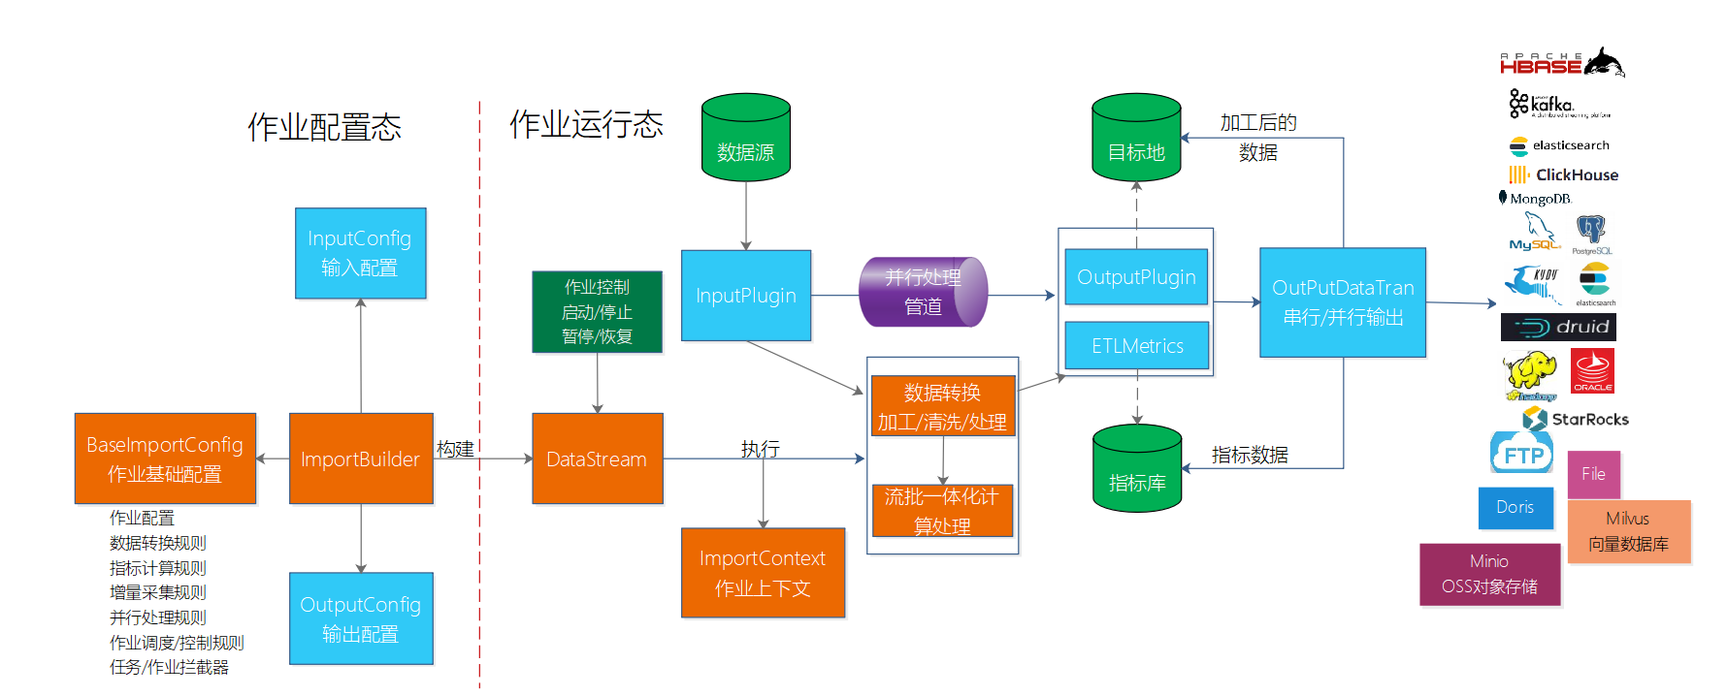
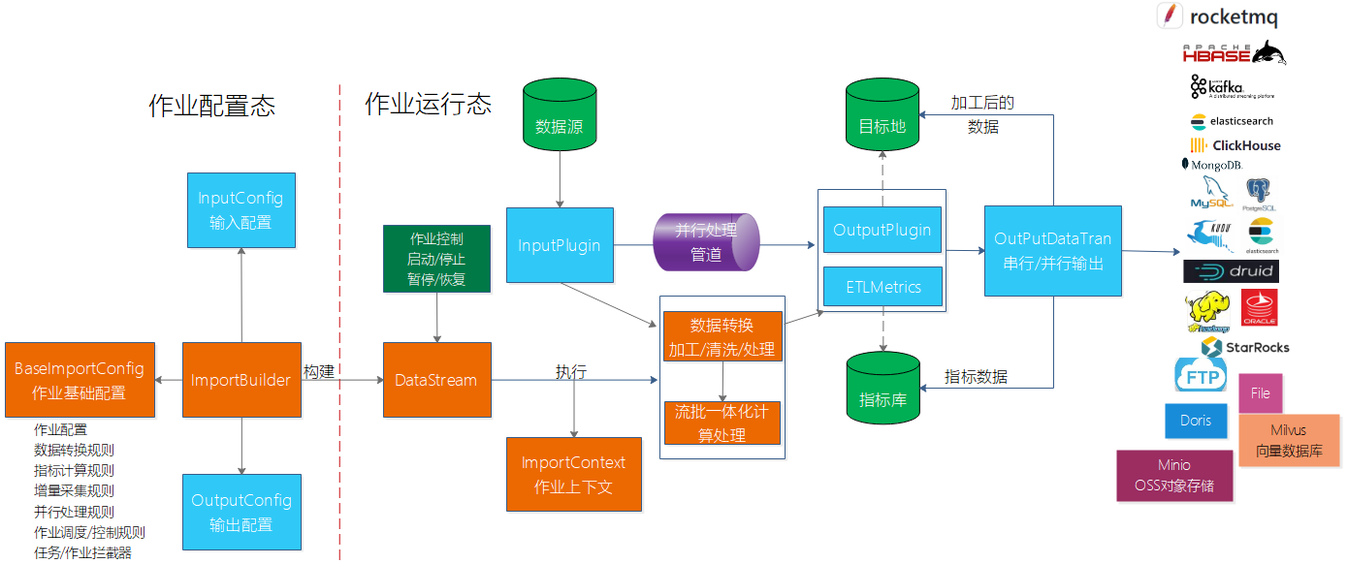
完善文档

diff --git a/docs/elasticsearch-sftp.md b/docs/elasticsearch-sftp.md
@@ -322,29 +322,29 @@ public class ES2FileFtpBatchSplitFileDemo {
 
 通过FileOutputConfig和FtpOutConfig两个类配合来设置sftp和ftp上传的的相关配置：
 
-| 参数名称                  | 描述                                                         | 默认值               | 对应协议 |
-| ------------------------- | ------------------------------------------------------------ | -------------------- | -------- |
-| ftpIP                     | 必填，String类型，ftp/sftp服务器ip地址                       | 空                   | ftp/sftp |
-| ftpPort                   | 必填，int类型，ftp/sftp服务器端口                            | 空                   | ftp/sftp |
-| ftpUser                   | 必填，String类型，ftp/sftp服务器用户账号                     | 空                   | ftp/sftp |
-| ftpPassword               | 必填，String类型，ftp/sftp服务器用户口令                     | 空                   | ftp/sftp |
-| remoteFileDir             | 必填，String类型，指定ftp/sftp服务器目录地址，用户存放上传的文件 | 空                   | ftp/sftp |
-| fileDir                   | 必填，String类型，指定导出数据生成的文件存放的本地目录、上传成功文件备份目录、上传失败文件存放目录（便于定时重传） | 空                   | ftp/sftp |
-| keepAliveTimeout          | 可选，long类型，单位毫秒，ftp/sftp通讯协议连接存活超时时间   | 0                    | ftp/sftp |
-| socketTimeout             | 可选，long类型，单位毫秒，ftp/sftp数据读取超时时间，避免socketTimeout异常 | 0                    | ftp/sftp |
-| connectTimeout            | 可选，long类型，单位毫秒，sftp数据连接建立超时时间           | 0                    | sftp     |
-| transferEmptyFiles        | 必填，boolean类型，是否上传空文件，true上传，false不上传     | true                 | ftp/sftp |
-| backupSuccessFiles        | 必填，boolean类型，是备份上传成功文件，true备份，false不备份 | false                | ftp/sftp |
-| failedFileResendInterval  | 必填，long类型，失败文件重传时间间隔，-1或者0不重传，单位：毫秒 | 5000                 | ftp/sftp |
-| successFilesCleanInterval | 必填，long类型，扫描需要清理上传成功文件时间间隔，单位：毫秒 | 5000                 | ftp/sftp |
-| fileLiveTime              | 必填，int类型，上传成功文件保留时间，单位：秒                | 2天                  | ftp/sftp |
-| maxFileRecordSize         | 必填，int类型，切割文件时，指定每个文件保存的记录条数，>0时启用文件切割机制；按记录条数切割文件机制对并行导出数据不起作用 | -1                   | ftp/sftp |
-| maxForceFileThreshold     | 单位：秒，设置文件数据写入空闲时间阈值，如果空闲时间内没有数据到来，则进行文件切割或者flush数据到文件处理。文件切割记录规则：达到最大记录数或者空闲时间达到最大空闲时间阈值，进行文件切割 。 如果不切割文件，达到最大最大空闲时间阈值，当切割文件标识为false时，只执行flush数据操作，不关闭文件也不生成新的文件，否则生成新的文件。本属性适用于文件输出插件与kafka、mysql binlog 、fileinput等事件监听型的输入插件配合使用，其他类型输入插件无需配置 | 0                    | ftp/sftp |
-| filenameGenerator         | 必填，FilenameGenerator接口类型，用于自定义生成文件的名称    | 无                   | ftp/sftp |
-| hostKeyVerifier           | 可选，适用于sftp协议，如果sftp协议需要指定，可以先不设置，然后将运行报错日志中打印出来字符串设置即可 | 无                   | sftp     |
-| reocordGenerator          | 可选，ReocordGenerator接口类型，用来定义生成的记录格式，如果不设置默认为json格式 | JsonReocordGenerator | ftp/sftp |
-| sendFileAsyn              | 可选，boolean类型,设置是否异步发送文件， true 异步发送 false同步发送,默认同步发送。数据量比较多，同时切割文件的情况下，启用异步发送文件，会显著提升数据采集同步性能 | false                | ftp/sftp |
-| sendFileAsynWorkThreads   | 可选，int类型,设置异步发送文件线程数                         | 10                   | ftp/sftp |
+| 参数名称                  | 描述                                                                                                                                                                                                                                                        | 默认值               | 对应协议 |
+| ------------------------- |-----------------------------------------------------------------------------------------------------------------------------------------------------------------------------------------------------------------------------------------------------------| -------------------- | -------- |
+| ftpIP                     | 必填，String类型，ftp/sftp服务器ip地址                                                                                                                                                                                                                               | 空                   | ftp/sftp |
+| ftpPort                   | 必填，int类型，ftp/sftp服务器端口                                                                                                                                                                                                                                    | 空                   | ftp/sftp |
+| ftpUser                   | 必填，String类型，ftp/sftp服务器用户账号                                                                                                                                                                                                                               | 空                   | ftp/sftp |
+| ftpPassword               | 必填，String类型，ftp/sftp服务器用户口令                                                                                                                                                                                                                               | 空                   | ftp/sftp |
+| remoteFileDir             | 必填，String类型，指定ftp/sftp服务器目录地址，用户存放上传的文件                                                                                                                                                                                                                   | 空                   | ftp/sftp |
+| fileDir                   | 必填，String类型，指定导出数据生成的文件存放的本地目录、上传成功文件备份目录、上传失败文件存放目录（便于定时重传）                                                                                                                                                                                              | 空                   | ftp/sftp |
+| keepAliveTimeout          | 可选，long类型，单位毫秒，ftp/sftp通讯协议连接存活超时时间                                                                                                                                                                                                                       | 0                    | ftp/sftp |
+| socketTimeout             | 可选，long类型，单位毫秒，ftp/sftp数据读取超时时间，避免socketTimeout异常                                                                                                                                                                                                         | 0                    | ftp/sftp |
+| connectTimeout            | 可选，long类型，单位毫秒，sftp数据连接建立超时时间                                                                                                                                                                                                                             | 0                    | sftp     |
+| transferEmptyFiles        | 必填，boolean类型，是否上传空文件，true上传，false不上传                                                                                                                                                                                                                      | true                 | ftp/sftp |
+| backupSuccessFiles        | 必填，boolean类型，是备份上传成功文件，true备份，false不备份                                                                                                                                                                                                                    | false                | ftp/sftp |
+| failedFileResendInterval  | 必填，long类型，失败文件重传时间间隔，-1或者0不重传，单位：毫秒                                                                                                                                                                                                                       | 5000                 | ftp/sftp |
+| successFilesCleanInterval | 必填，long类型，扫描需要清理上传成功文件时间间隔，单位：毫秒                                                                                                                                                                                                                          | 5000                 | ftp/sftp |
+| fileLiveTime              | 必填，int类型，上传成功文件保留时间，单位：秒                                                                                                                                                                                                                                  | 2天                  | ftp/sftp |
+| maxFileRecordSize         | 必填，int类型，切割文件时，指定每个文件保存的记录条数，>0时启用文件切割机制；按记录条数切割文件机制对并行导出数据不起作用                                                                                                                                                                                           | -1                   | ftp/sftp |
+| maxForceFileThreshold     | 单位：秒，设置文件数据写入空闲时间阈值，如果空闲时间内没有数据到来，则进行文件切割或者flush数据到文件处理。文件切割记录规则：达到最大记录数或者空闲时间达到最大空闲时间阈值，进行文件切割 。 如果不切割文件，达到最大最大空闲时间阈值，当切割文件标识为false时，只执行flush数据操作，不关闭文件也不生成新的文件，否则生成新的文件。本属性适用于文件输出插件与Rocketmq、kafka、mysql binlog 、fileinput等事件监听型的输入插件配合使用，其他类型输入插件无需配置 | 0                    | ftp/sftp |
+| filenameGenerator         | 必填，FilenameGenerator接口类型，用于自定义生成文件的名称                                                                                                                                                                                                                     | 无                   | ftp/sftp |
+| hostKeyVerifier           | 可选，适用于sftp协议，如果sftp协议需要指定，可以先不设置，然后将运行报错日志中打印出来字符串设置即可                                                                                                                                                                                                    | 无                   | sftp     |
+| reocordGenerator          | 可选，ReocordGenerator接口类型，用来定义生成的记录格式，如果不设置默认为json格式                                                                                                                                                                                                        | JsonReocordGenerator | ftp/sftp |
+| sendFileAsyn              | 可选，boolean类型,设置是否异步发送文件， true 异步发送 false同步发送,默认同步发送。数据量比较多，同时切割文件的情况下，启用异步发送文件，会显著提升数据采集同步性能                                                                                                                                                              | false                | ftp/sftp |
+| sendFileAsynWorkThreads   | 可选，int类型,设置异步发送文件线程数                                                                                                                                                                                                                                      | 10                   | ftp/sftp |
 
 示例代码如下：
 

diff --git a/docs/datatran-plugins.md b/docs/datatran-plugins.md
@@ -1610,6 +1610,85 @@ ImportBuilder importBuilder = new ImportBuilder();
 通过设置FileConfig.setDeleteEOFFile(true)，可以控制删除采集完毕的文件,图片文件内容采集实例：
 https://gitee.com/bboss/filelog-elasticsearch/blob/main/src/main/java/org/frameworkset/datatran/imp/pic/PictureFile2CustomDemoOnce.java
 
+## 1.14 Rocketmq输入插件
+
+Rocketmq输入插件:[RocketmqInputConfig](https://gitee.com/bboss/bboss-elastic-tran/blob/master/bboss-datatran-rocketmq/src/main/java/org/frameworkset/tran/plugin/rocketmq/input/RocketmqInputConfig.java)，Rocketmq消费端参数配置、主题配置、客户端消费组配置等
+
+### 1.14.1 使用案例
+
+Rocketmq输入插件使用案例：
+
+```java
+/**
+ * Rocketmq输入插件配置
+ */
+RocketmqInputConfig rocketmqInputConfig = new RocketmqInputConfig();
+rocketmqInputConfig.setNamesrvAddr("172.24.176.18:9876")
+        .setConsumerGroup("etlgroup2")
+        .setTopic("etltopic")//多个主题，用逗号分隔：etltopic,etltopic1
+        .setTag("json").setAccessKey("Rocketmq")
+        .setSecretKey("12345678").setMaxPollRecords(100)
+        .setConsumeMessageBatchMaxSize(50)
+        .setConsumeFromWhere("CONSUME_FROM_FIRST_OFFSET")
+        .setWorkThreads(10)
+        .setKeyDeserializer("org.frameworkset.rocketmq.codec.StringCodecDeserial")
+        .setValueDeserializer("org.frameworkset.rocketmq.codec.JsonMapCodecDeserial");
+importBuilder.setInputConfig(rocketmqInputConfig);
+```
+
+消费位置ConsumeFromWhere设置：
+
+```java
+*     CONSUME_FROM_LAST_OFFSET,
+*
+*     @Deprecated
+*     CONSUME_FROM_LAST_OFFSET_AND_FROM_MIN_WHEN_BOOT_FIRST,
+*     @Deprecated
+*     CONSUME_FROM_MIN_OFFSET,
+*     @Deprecated
+*     CONSUME_FROM_MAX_OFFSET,
+*     CONSUME_FROM_FIRST_OFFSET,
+*     CONSUME_FROM_TIMESTAMP,
+```
+
+### 1.14.2 获取消息元数据
+
+通过record.getMetaDatas()方法获取Rocketmq消息元数据信息，实例如下
+
+```java
+//自己处理数据
+CustomOutputConfig customOutputConfig = new CustomOutputConfig();
+customOutputConfig.setCustomOutPut(new CustomOutPut() {
+    @Override
+    public void handleData(TaskContext taskContext, List<CommonRecord> datas) {
+
+        //You can do any thing here for datas
+        for(CommonRecord record:datas){
+            Map<String,Object> data = record.getDatas();
+            logger.info(SimpleStringUtil.object2json(data));
+            logger.info(SimpleStringUtil.object2json(record.getMetaDatas()));
+
+        }
+    }
+});
+importBuilder.setOutputConfig(customOutputConfig);
+```
+
+消息元数据样本数据源：
+
+```json
+{
+    "topic":"etltopic",
+ 	"queueOffset":6328,
+ 	"keys":"testKey",
+ 	"tag":"json"
+}
+```
+
+### 1.14.3 完整案例代码
+
+https://gitee.com/bboss/bboss-datatran-demo/blob/main/src/main/java/org/frameworkset/datatran/imp/rocketmq/Rockemq2Custom.java
+
 # 2.输出插件
 
 ## 2.1 DB输出插件

diff --git a/docs/bboss-build.md b/docs/bboss-build.md
@@ -8,14 +8,14 @@ bboss采用模块化管理，模块之间依赖关系如下：
 
 模块源码工程地址和功能说明如下：
 
-| 源码地址                                   | 说明                                                         |
-| ------------------------------------------ | ------------------------------------------------------------ |
+| 源码地址                                   | 说明                                                                                                                              |
+| ------------------------------------------ |---------------------------------------------------------------------------------------------------------------------------------|
 | https://gitee.com/bboss/bboss              | [基础框架](https://doc.bbossgroups.com/#/)：包含ioc、持久层、mvc、任务调度管理、序列化/反序列化以及[配置管理](https://doc.bbossgroups.com/#/aop/IntroduceIoc)等功能 |
-| https://gitee.com/bboss/bboss-data         | [Redis](https://doc.bbossgroups.com/#/redis)、MongoDB、Milvus、Minio客户端封装 |
-| https://gitee.com/bboss/bboss-http         | 轻量级[http](https://esdoc.bbossgroups.com/#/httpproxy)微服务框架 |
-| https://gitee.com/bboss/bboss-plugins      | [kafka](https://doc.bbossgroups.com/#/kafka)、apollo、nacos对接框架 |
-| https://gitee.com/bboss/bboss-elastic      | Elasticsearch Java [RestClient](https://esdoc.bbossgroups.com/#/quickstart) |
-| https://gitee.com/bboss/bboss-elastic-tran | [数据采集](https://esdoc.bbossgroups.com/#/db-es-tool)ETL、[流批一体化](https://esdoc.bbossgroups.com/#/etl-metrics)计算框架 |
+| https://gitee.com/bboss/bboss-data         | [Redis](https://doc.bbossgroups.com/#/redis)、MongoDB、Milvus、Minio客户端封装                                                          |
+| https://gitee.com/bboss/bboss-http         | 轻量级[http](https://esdoc.bbossgroups.com/#/httpproxy)微服务框架                                                                       |
+| https://gitee.com/bboss/bboss-plugins      | [kafka](https://doc.bbossgroups.com/#/kafka)、apollo、nacos、Rocketmq对接框架                                                                  |
+| https://gitee.com/bboss/bboss-elastic      | Elasticsearch Java [RestClient](https://esdoc.bbossgroups.com/#/quickstart)                                                     |
+| https://gitee.com/bboss/bboss-elastic-tran | [数据采集](https://esdoc.bbossgroups.com/#/db-es-tool)ETL、[流批一体化](https://esdoc.bbossgroups.com/#/etl-metrics)计算框架                  |
 
 可以从以上地址下载各模块源码工程，然后按表格顺序，依次在命令行源码根目录下，执行gradle publishToMavenLocal指令，构建模块版本：
 

diff --git a/docs/README.md b/docs/README.md
@@ -12,14 +12,14 @@ bboss采用模块化管理以上三部分，模块之间依赖关系如下：
 
 模块源码工程源码地址和功能说明如下：
 
-| 源码地址                                   | 说明                                                         |
-| ------------------------------------------ | ------------------------------------------------------------ |
+| 源码地址                                   | 说明                                                                                                                              |
+| ------------------------------------------ |---------------------------------------------------------------------------------------------------------------------------------|
 | https://gitee.com/bboss/bboss              | [基础框架](https://doc.bbossgroups.com/#/)：包含ioc、持久层、mvc、任务调度管理、序列化/反序列化以及[配置管理](https://doc.bbossgroups.com/#/aop/IntroduceIoc)等功能 |
-| https://gitee.com/bboss/bboss-data         | [Redis](https://doc.bbossgroups.com/#/redis)、MongoDB、Milvus、Minio客户端封装 |
-| https://gitee.com/bboss/bboss-http         | 轻量级[http](https://esdoc.bbossgroups.com/#/httpproxy)微服务框架 |
-| https://gitee.com/bboss/bboss-plugins      | [kafka](https://doc.bbossgroups.com/#/kafka)、apollo、nacos对接框架 |
-| https://gitee.com/bboss/bboss-elastic      | Elasticsearch Java [RestClient](https://esdoc.bbossgroups.com/#/quickstart) |
-| https://gitee.com/bboss/bboss-elastic-tran | [数据采集](https://esdoc.bbossgroups.com/#/db-es-tool)ETL、[流批一体化](https://esdoc.bbossgroups.com/#/etl-metrics)计算框架 |
+| https://gitee.com/bboss/bboss-data         | [Redis](https://doc.bbossgroups.com/#/redis)、MongoDB、Milvus、Minio客户端封装                                                          |
+| https://gitee.com/bboss/bboss-http         | 轻量级[http](https://esdoc.bbossgroups.com/#/httpproxy)微服务框架                                                                       |
+| https://gitee.com/bboss/bboss-plugins      | [kafka](https://doc.bbossgroups.com/#/kafka)、apollo、nacos、Rocketmq对接框架                                                          |
+| https://gitee.com/bboss/bboss-elastic      | Elasticsearch Java [RestClient](https://esdoc.bbossgroups.com/#/quickstart)                                                     |
+| https://gitee.com/bboss/bboss-elastic-tran | [数据采集](https://esdoc.bbossgroups.com/#/db-es-tool)ETL、[流批一体化](https://esdoc.bbossgroups.com/#/etl-metrics)计算框架                  |
 
 项目源码构建：[源码下载和构建](https://esdoc.bbossgroups.com/#/README?id=_3-源码下载和构建)，下面详细介绍各部分特色。
 

diff --git a/docs/bboss-datasyn-demo.md b/docs/bboss-datasyn-demo.md
@@ -22,7 +22,7 @@ https://esdoc.bbossgroups.com/#/bboss-build
 
 # 1.功能架构	
 
-		bboss数据同步可以方便地实现多种数据源之间的数据同步功能，**支持增、删、改数据同步**，支持各种主流数据库、各种es版本以及日志文件数据采集和同步、加工处理，支持从kafka接收数据；经过加工处理的数据亦可以发送到kafka；可以将加工后的数据写入File并上传到ftp/sftp服务器。
+		bboss数据同步可以方便地实现多种数据源之间的数据同步功能，**支持增、删、改数据同步**，支持各种主流数据库、各种es版本以及日志文件数据采集和同步、加工处理，支持从kafka、Rocketmq接收数据；经过加工处理的数据亦可以发送到kafka、Rocketmq；可以将加工后的数据写入File并上传到ftp/sftp服务器。
 
 ![img](images/datasyn.png)	
 
@@ -519,6 +519,16 @@ https://esdoc.bbossgroups.com/#/datatran-plugins
 Doris和Starrocks兼容Mysql客户端协议，可以直接使用数据库输出插件将其他数据源的数据同步到Doris和Starrocks中，Doris对接案例（Starrocks类似）：
 
 https://gitee.com/bboss/bboss-datatran-demo/blob/main/src/main/java/org/frameworkset/datatran/imp/doris/Db2Dorisdemo.java
+
+# 24 Rocketmq案例
+
+输入插件案例：
+
+https://gitee.com/bboss/bboss-datatran-demo/blob/main/src/main/java/org/frameworkset/datatran/imp/rocketmq/Rockemq2Custom.java
+
+输出插件案例
+
+https://gitee.com/bboss/bboss-datatran-demo/blob/main/src/main/java/org/frameworkset/datatran/imp/rocketmq/DB2Rocketmq.java
 
 # 开发交流
 

diff --git a/docs/changelog.md b/docs/changelog.md
@@ -42,6 +42,16 @@
 ```
 
 ETL插件依赖的maven坐标，参考文档：[在工程中导入插件maven坐标](https://esdoc.bbossgroups.com/#/db-es-tool?id=_11-在工程中导入bboss-maven坐标)
+# v7.2.9 功能改进-20241122
+1. 新增Rocketmq输入插件：从Rocketmq接收数据，支持同时设置多个topic主题，指定消息消费位置等参数；数据通过加工处理后，通过其他输出插件进行输出。
+2. 新增Rocketmq输出插件：将数据源采集的数据，进行加工处理后，通过Rocketmq输出插件将处理后的数据发送到Rocketmq
+3. 完善Kafka输入输出插件：完善kafk输入输出插件，不注册jvm shutdown hook
+4. 完善kafka输入插件：增加消息元数据信息
+5. 调小http链接池健康检查数据源连接池大小
+6. 指标计算改进：新增指标key对象MetricKey,相关接口将String metricKey调整为MetricKey metricKey，调整相关案例代码 
+7. 项目和案例源码jdk 18+兼容性调整，兼容jdk 18+版本 
+8. Gradle构建脚本兼容性调整，兼容gradle 8+版本
+
 # v7.2.8 功能改进-20241102
 1. 数据交换功能扩展：增加向量数据库Milvus输出插件，支持在数据处理时，调用向量模型服务，对数据进行向量化处理，通过向量库Milvus输出插件保存向量化处理结果。
     

diff --git a/docs/db-es-tool.md b/docs/db-es-tool.md
@@ -100,7 +100,7 @@ https://gitee.com/bboss/bboss-elastic-tran
 
 2）支持各种主流数据库、各种es版本以及本地/Ftp日志文件数据采集和同步、加工处理
 
-支持在Elasticsearch、关系数据库、Mongodb、HBase、Hive、Kafka、文本文件、excel/word/pdf/图片/视频等类型文件、SFTP/FTP、http/https多种数据源之间进行海量数据采集同步；支持数据实时增量采集和全量采集；支持根据字段进行数据记录切割；支持多级文件路径(本地和FTP/SFTP)下不同文件数据采集写入不同的数据库表和其他数据源。
+支持在Elasticsearch、关系数据库、Mongodb、HBase、Hive、Kafka、Rocketmq、文本文件、excel/word/pdf/图片/视频等类型文件、SFTP/FTP、http/https多种数据源之间进行海量数据采集同步；支持数据实时增量采集和全量采集；支持根据字段进行数据记录切割；支持多级文件路径(本地和FTP/SFTP)下不同文件数据采集写入不同的数据库表和其他数据源。
 
 支持各种数据库： mysql,maridb，postgress,oracle ,sqlserver,db2,tidb,hive，clickhouse，mongodb、HBase等
 

diff --git a/docs/filelog-guide.md b/docs/filelog-guide.md
@@ -4,7 +4,7 @@
 
 1. 支持全量和增量采集两种模式
 2. 支持ETL采集转换清洗-[流批计算一体化融合](https://esdoc.bbossgroups.com/#/etl-metrics)处理 
-3. 实时采集日志文件、json文件、文本文件、excel/word/pdf/图片/视频等类型文件（本地和ftp/sftp）数据到kafka/elasticsearch/database/自定义处理器等等 
+3. 实时采集日志文件、json文件、文本文件、excel/word/pdf/图片/视频等类型文件（本地和ftp/sftp）数据到kafka/Rocketmq/elasticsearch/database/自定义处理器等等 
 4. 支持多线程并行下载和处理远程数据文件 
 5. 支持本地/ftp/sftp子目录下文件数据采集； 
 6. 支持备份采集完毕日志文件功能，可以指定备份文件保存时长，定期清理过期文件； 

diff --git a/docs/bulkProcessor-common.md b/docs/bulkProcessor-common.md
@@ -93,7 +93,7 @@ bulkAction 设置执行数据批处理接口，实现对数据的异步批处理
 
 ## 1.5 数据批处理接口
 
-执行数据批处理接口，实现对数据的异步批处理功能逻辑，可以根据需要将数据批量写入各种关系数据库、分布式数据库、kafka、nosql数据库等
+执行数据批处理接口，实现对数据的异步批处理功能逻辑，可以根据需要将数据批量写入各种关系数据库、分布式数据库、kafka、Rocketmq、nosql数据库等
 
 org.frameworkset.bulk.BulkAction
 

diff --git a/docs/mongodbgitchat.md b/docs/mongodbgitchat.md
@@ -14,7 +14,7 @@
 	 - 将Elasticsearch数据同步到数据库表
 	 - 将mongodb数据同步到Elasticsearch
 	 - 将mongodb数据同步到数据库表
-	 - 从kafka接收数据导入elasticsearch（支持kafka_2.12-0.10.2.0和kafka_2.12-2.3.0 系列版本）
+	 - 从kafka/Rocketmq接收数据导入elasticsearch（支持kafka_2.12-0.10.2.0和kafka_2.12-2.3.0 系列版本）
 
 2. 支持的导入方式
 	 - 逐条数据导入

diff --git a/docs/mongodb-elasticsearch.md b/docs/mongodb-elasticsearch.md
@@ -17,7 +17,7 @@
  - 将mongodb数据同步到Elasticsearch
  - 将mongodb数据同步到数据库表
  - 将hbase数据同步到Elasticsearch
- - 从kafka接收数据导入elasticsearch（支持kafka_2.12-0.10.2.0和kafka_2.12-2.3.0 系列版本）
+ - 从kafka/Rocketmq接收数据导入elasticsearch（支持kafka_2.12-0.10.2.0和kafka_2.12-2.3.0 系列版本）
 
 2. 支持的导入方式
 	 - 逐条数据导入
